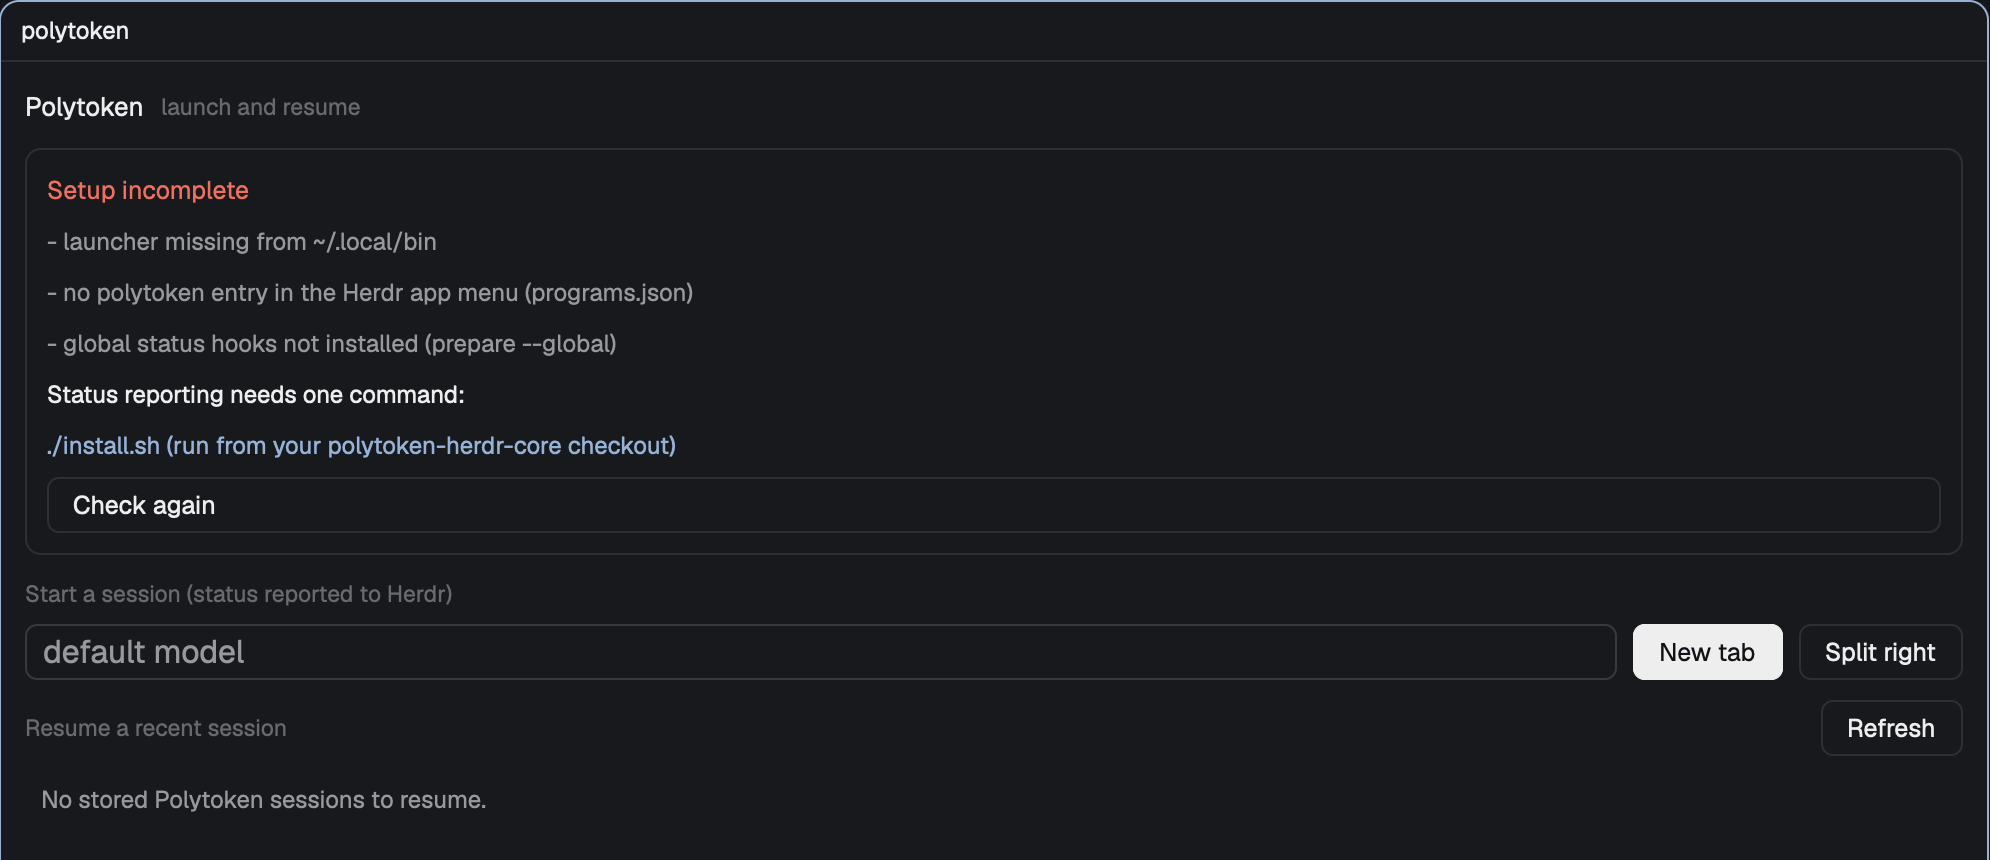
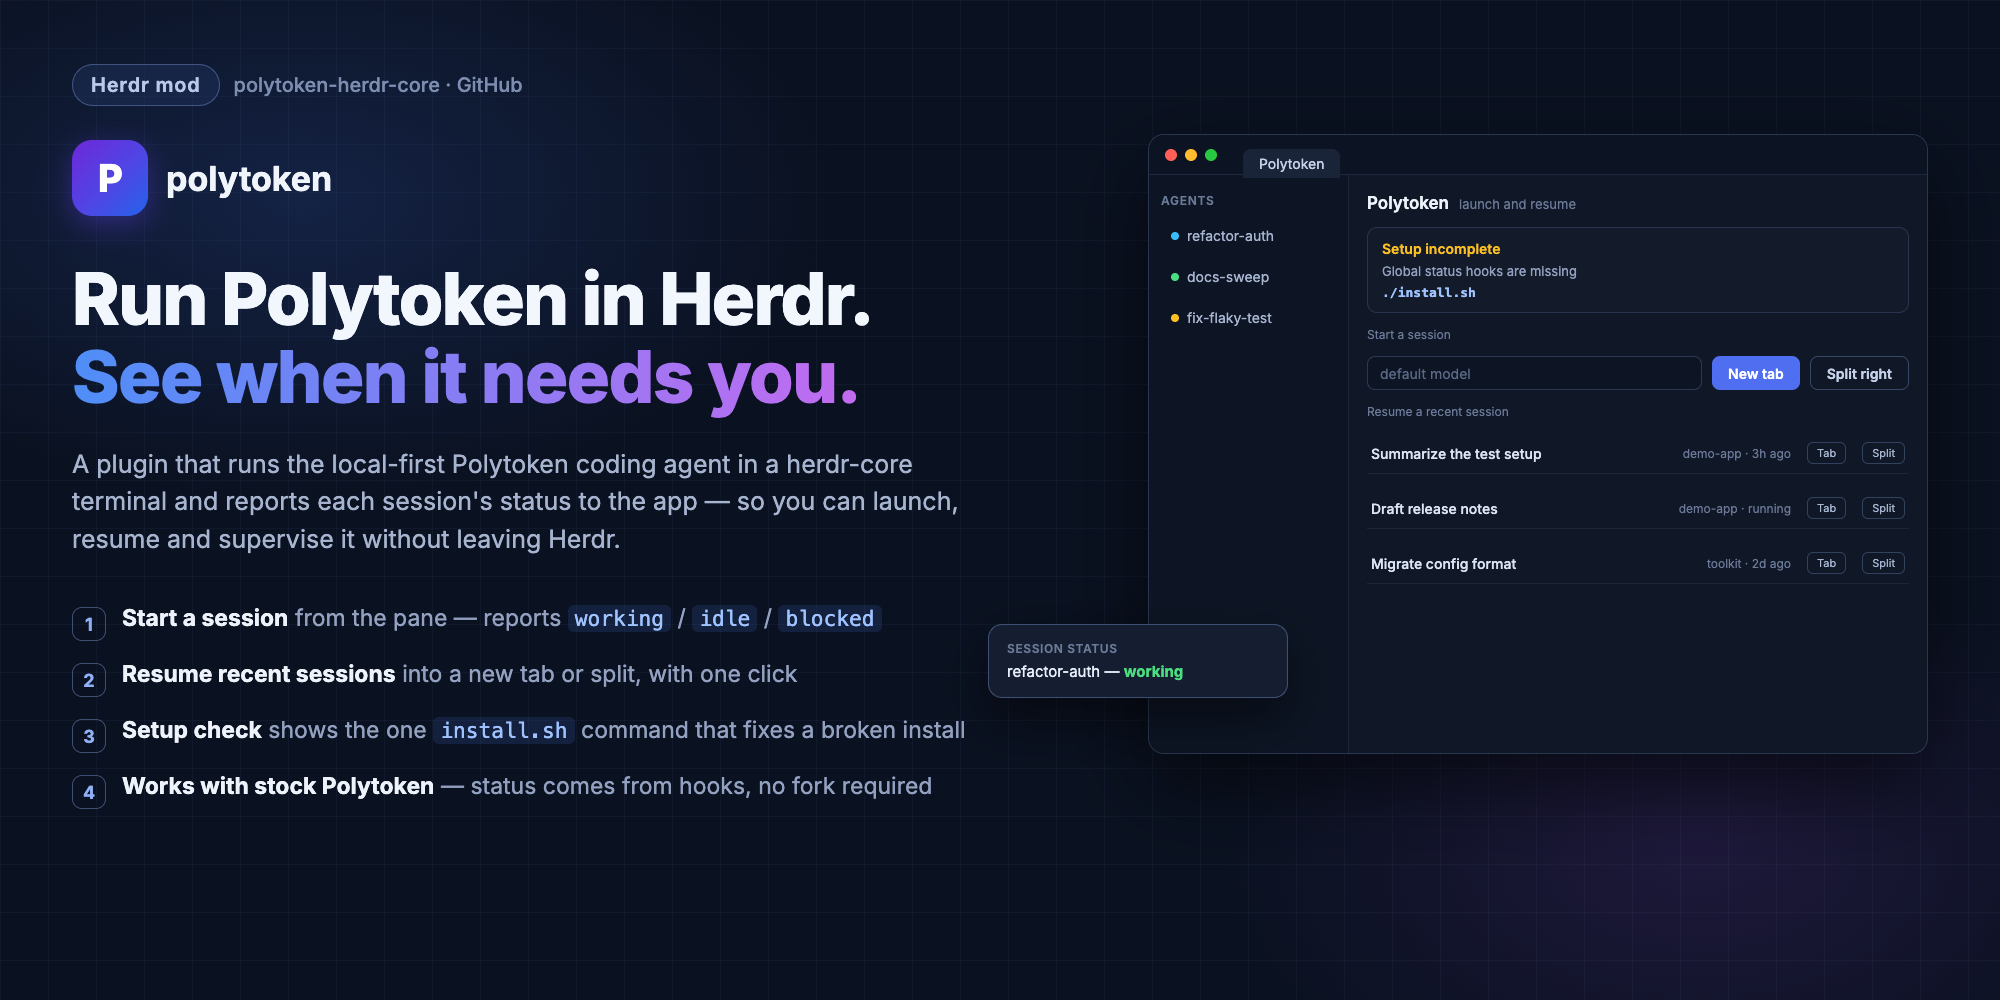
docs: explain Polytoken in README and add attract card preview (#2)
* docs: explain what Polytoken is in README

* docs: add attract card as preview.png and move pane screenshot to docs/screenshot.png

* no-mistakes(review): Point RECIPE.md preview at docs/screenshot.png

diff --git a/docs/attract/attract.html b/docs/attract/attract.html
@@ -1,0 +1,215 @@
+<!doctype html>
+<html>
+<head>
+<meta charset="utf-8">
+<style>
+  * { margin: 0; padding: 0; box-sizing: border-box; }
+  html, body { width: 2000px; height: 1000px; overflow: hidden; }
+  body {
+    font-family: "Inter", "Geist", -apple-system, "Helvetica Neue", Arial, sans-serif;
+    background: #0a1120;
+    color: #e6ecf5;
+    position: relative;
+  }
+  /* subtle grid + glow */
+  .bg-grid {
+    position: absolute; inset: 0;
+    background-image:
+      linear-gradient(rgba(120,150,220,0.06) 1px, transparent 1px),
+      linear-gradient(90deg, rgba(120,150,220,0.06) 1px, transparent 1px);
+    background-size: 48px 48px;
+  }
+  .bg-glow {
+    position: absolute; inset: 0;
+    background:
+      radial-gradient(900px 500px at 15% 20%, rgba(64,110,230,0.18), transparent 60%),
+      radial-gradient(800px 500px at 85% 85%, rgba(150,70,220,0.14), transparent 60%);
+  }
+  .content {
+    position: absolute; inset: 0;
+    padding: 64px 72px;
+    display: flex;
+  }
+  .left { width: 1020px; position: relative; }
+  .pill-row { display: flex; align-items: center; gap: 14px; }
+  .pill {
+    display: inline-block; padding: 8px 18px; border-radius: 999px;
+    border: 1px solid rgba(140,170,240,0.35);
+    background: rgba(30,48,90,0.5);
+    font-size: 20px; font-weight: 600; letter-spacing: 0.04em; color: #b9c8e8;
+  }
+  .pill-row .gh { font-size: 20px; color: #7d8db0; font-weight: 500; }
+  .brand-row { display: flex; align-items: center; gap: 18px; margin-top: 34px; }
+  .icon {
+    width: 76px; height: 76px; border-radius: 20px;
+    background: linear-gradient(135deg, #6d28d9 0%, #4f46e5 55%, #2563eb 100%);
+    display: flex; align-items: center; justify-content: center;
+    box-shadow: 0 8px 30px rgba(90,60,220,0.45);
+    font-size: 38px; font-weight: 800; color: #fff; letter-spacing: -0.02em;
+  }
+  .mod-name { font-size: 34px; font-weight: 700; color: #f0f4fb; }
+  h1 {
+    margin-top: 44px; font-size: 72px; line-height: 1.08; font-weight: 800;
+    letter-spacing: -0.02em; color: #f2f6fd;
+  }
+  h1 .grad {
+    background: linear-gradient(90deg, #4f8ef7 0%, #c26bf0 100%);
+    -webkit-background-clip: text; background-clip: text; color: transparent;
+  }
+  .lede {
+    margin-top: 30px; font-size: 25px; line-height: 1.5; color: #a7b4cf;
+    max-width: 900px;
+  }
+  .features { margin-top: 44px; display: flex; flex-direction: column; gap: 22px; }
+  .feat { display: flex; align-items: baseline; gap: 16px; font-size: 23px; }
+  .feat .n {
+    flex: none; width: 34px; height: 34px; border-radius: 10px;
+    border: 1px solid rgba(140,170,240,0.4); color: #8fb0f5;
+    display: inline-flex; align-items: center; justify-content: center;
+    font-size: 18px; font-weight: 700; transform: translateY(5px);
+  }
+  .feat b { color: #eef3fb; font-weight: 700; }
+  .feat span { color: #93a1c0; font-weight: 400; }
+  code {
+    font-family: "SF Mono", "JetBrains Mono", ui-monospace, Menlo, monospace;
+    font-size: 0.92em; color: #9fc3ff;
+    background: rgba(50,80,150,0.25); border-radius: 6px; padding: 1px 7px;
+  }
+  /* right side: herdr window mockup */
+  .right { position: relative; flex: 1; }
+  .window {
+    position: absolute; top: 70px; right: 0; width: 780px; height: 620px;
+    background: #101827; border: 1px solid rgba(130,160,220,0.22);
+    border-radius: 16px; box-shadow: 0 30px 80px rgba(0,0,0,0.55);
+    overflow: hidden;
+  }
+  .titlebar {
+    height: 40px; background: #0c1322; border-bottom: 1px solid rgba(130,160,220,0.15);
+    display: flex; align-items: center; gap: 8px; padding: 0 16px;
+  }
+  .tl { width: 12px; height: 12px; border-radius: 50%; }
+  .tl.r { background: #ff5f57; } .tl.y { background: #febc2e; } .tl.g { background: #28c840; }
+  .tab {
+    margin-left: 18px; padding: 6px 16px; border-radius: 8px 8px 0 0;
+    background: #1a2438; font-size: 14px; color: #c6d2ea; position: relative; top: 9px;
+  }
+  .win-body { display: flex; height: 580px; }
+  .sidebar {
+    width: 200px; background: #0d1524; border-right: 1px solid rgba(130,160,220,0.12);
+    padding: 14px 12px; display: flex; flex-direction: column; gap: 10px;
+  }
+  .side-label { font-size: 12px; color: #6c7a99; font-weight: 600; letter-spacing: 0.06em; margin: 4px 0 2px; }
+  .side-item { font-size: 14px; color: #a9b6d2; padding: 7px 10px; border-radius: 8px; }
+  .side-item.active { background: rgba(80,110,210,0.25); color: #e8eefb; }
+  .dot { display: inline-block; width: 8px; height: 8px; border-radius: 50%; margin-right: 8px; transform: translateY(-1px); }
+  .dot.working { background: #38bdf8; } .dot.idle { background: #4ade80; } .dot.blocked { background: #fbbf24; }
+  .pane {
+    flex: 1; padding: 18px; display: flex; flex-direction: column; gap: 14px;
+    font-size: 15px;
+  }
+  .pane-header { display: flex; align-items: baseline; gap: 10px; }
+  .pane-header .t { font-size: 17px; font-weight: 600; color: #eef3fb; }
+  .pane-header .s { font-size: 13px; color: #6c7a99; }
+  .card {
+    background: #16203266; border: 1px solid rgba(130,160,220,0.18);
+    border-radius: 10px; padding: 12px 14px;
+  }
+  .setup .head { color: #fbbf24; font-weight: 600; font-size: 14px; margin-bottom: 6px; }
+  .setup .line { color: #93a1c0; font-size: 13px; }
+  .setup .cmd { color: #9fc3ff; font-family: "SF Mono", ui-monospace, Menlo, monospace; font-size: 13px; font-weight: 600; margin-top: 6px; }
+  .label { font-size: 12px; color: #6c7a99; }
+  .row { display: flex; gap: 10px; }
+  .input {
+    flex: 1; height: 34px; border-radius: 8px; background: #0d1524;
+    border: 1px solid rgba(130,160,220,0.25); color: #5c6a88;
+    display: flex; align-items: center; padding: 0 12px; font-size: 14px;
+  }
+  .btn {
+    height: 34px; padding: 0 16px; border-radius: 8px; display: flex; align-items: center;
+    font-size: 14px; font-weight: 600;
+  }
+  .btn.solid { background: #4f6ef0; color: #fff; }
+  .btn.ghost { border: 1px solid rgba(130,160,220,0.35); color: #c6d2ea; }
+  .sess { display: flex; align-items: center; gap: 10px; padding: 9px 4px; border-bottom: 1px solid rgba(130,160,220,0.1); }
+  .sess .title { font-size: 14px; color: #dbe4f5; font-weight: 500; flex: 1; }
+  .sess .meta { font-size: 12px; color: #6c7a99; }
+  .mini {
+    font-size: 11px; padding: 3px 9px; border-radius: 6px;
+    border: 1px solid rgba(130,160,220,0.3); color: #a9b6d2; margin-left: 6px;
+  }
+  .float-card {
+    position: absolute; right: 640px; top: 560px; width: 300px;
+    background: #141e30; border: 1px solid rgba(140,170,240,0.35);
+    border-radius: 14px; padding: 16px 18px;
+    box-shadow: 0 20px 50px rgba(0,0,0,0.5);
+  }
+  .float-card .k { font-size: 12px; color: #6c7a99; font-weight: 600; letter-spacing: 0.05em; }
+  .float-card .v { font-size: 15px; color: #e8eefb; margin-top: 6px; }
+  .float-card .v b { color: #4ade80; font-weight: 700; }
+</style>
+</head>
+<body>
+  <div class="bg-grid"></div>
+  <div class="bg-glow"></div>
+  <div class="content">
+    <div class="left">
+      <div class="pill-row">
+        <span class="pill">Herdr mod</span>
+        <span class="gh">polytoken-herdr-core &middot; GitHub</span>
+      </div>
+      <div class="brand-row">
+        <div class="icon">P</div>
+        <div class="mod-name">polytoken</div>
+      </div>
+      <h1>Run Polytoken in Herdr.<br><span class="grad">See when it needs you.</span></h1>
+      <p class="lede">A plugin that runs the local-first Polytoken coding agent in a
+      herdr-core terminal and reports each session's status to the app &mdash;
+      so you can launch, resume and supervise it without leaving Herdr.</p>
+      <div class="features">
+        <div class="feat"><span class="n">1</span><div><b>Start a session</b> <span>from the pane &mdash; reports <code>working</code> / <code>idle</code> / <code>blocked</code></span></div></div>
+        <div class="feat"><span class="n">2</span><div><b>Resume recent sessions</b> <span>into a new tab or split, with one click</span></div></div>
+        <div class="feat"><span class="n">3</span><div><b>Setup check</b> <span>shows the one <code>install.sh</code> command that fixes a broken install</span></div></div>
+        <div class="feat"><span class="n">4</span><div><b>Works with stock Polytoken</b> <span>&mdash; status comes from hooks, no fork required</span></div></div>
+      </div>
+    </div>
+    <div class="right">
+      <div class="window">
+        <div class="titlebar">
+          <span class="tl r"></span><span class="tl y"></span><span class="tl g"></span>
+          <span class="tab">Polytoken</span>
+        </div>
+        <div class="win-body">
+          <div class="sidebar">
+            <div class="side-label">AGENTS</div>
+            <div class="side-item"><span class="dot working"></span>refactor-auth</div>
+            <div class="side-item"><span class="dot idle"></span>docs-sweep</div>
+            <div class="side-item"><span class="dot blocked"></span>fix-flaky-test</div>
+          </div>
+          <div class="pane">
+            <div class="pane-header"><span class="t">Polytoken</span><span class="s">launch and resume</span></div>
+            <div class="card setup">
+              <div class="head">Setup incomplete</div>
+              <div class="line">Global status hooks are missing</div>
+              <div class="cmd">./install.sh</div>
+            </div>
+            <div class="label">Start a session</div>
+            <div class="row">
+              <div class="input">default model</div>
+              <div class="btn solid">New tab</div>
+              <div class="btn ghost">Split right</div>
+            </div>
+            <div class="label">Resume a recent session</div>
+            <div class="sess"><span class="title">Summarize the test setup</span><span class="meta">demo-app &middot; 3h ago</span><span class="mini">Tab</span><span class="mini">Split</span></div>
+            <div class="sess"><span class="title">Draft release notes</span><span class="meta">demo-app &middot; running</span><span class="mini">Tab</span><span class="mini">Split</span></div>
+            <div class="sess"><span class="title">Migrate config format</span><span class="meta">toolkit &middot; 2d ago</span><span class="mini">Tab</span><span class="mini">Split</span></div>
+          </div>
+        </div>
+      </div>
+      <div class="float-card">
+        <div class="k">SESSION STATUS</div>
+        <div class="v">refactor-auth &mdash; <b>working</b></div>
+      </div>
+    </div>
+  </div>
+</body>
+</html>

diff --git a/README.md b/README.md
@@ -1,10 +1,18 @@
 # polytoken-herdr-core
 
+![Polytoken mod card](preview.png)
+
 Run [Polytoken](https://docs.polytoken.dev/) in a [herdr-core](https://github.com/herdrdev/herdr-core) terminal, send it work with `hc`, and see when it is working or waiting for you.
 
 This adapter works with stock Polytoken. It uses hooks to report session status to herdr-core and keeps the Polytoken terminal available through `hc attach`. You handle permissions, questions, and first-run agreements yourself.
 
 The project is experimental. Human-run tests have confirmed startup, a follow-up prompt, and terminal shutdown with Polytoken 0.9.4 and hc 0.1.15 on macOS. Status reports can arrive late or be lost; `idle` does not mean a task succeeded.
+
+## What is Polytoken?
+
+[Polytoken](https://docs.polytoken.dev/) is a local-first AI coding agent: a daemon manages conversations with AI providers, runs tools in your projects, and you drive it through a CLI and a terminal UI (TUI). Sessions keep running in the daemon while you are detached from the terminal.
+
+This plugin makes that agent visible inside the Herdr app: it reports each session's status (`working`, `idle`, `blocked`) to herdr-core as it works, adds Polytoken to the app's agent menu, and provides the Polytoken pane mod.
 
 ## Install as a Herdr app plugin
 
@@ -64,7 +72,7 @@ herdr-app do pane.split --direction right --mod polytoken
   `install.sh` command that fixes it. It only reads; it never installs or
   repairs anything itself.
 
-`RECIPE.md` describes the pane for herdr.dev/mods; `preview.png` shows it.
+`RECIPE.md` describes the pane for herdr.dev/mods; the [pane screenshot](docs/screenshot.png) shows it.
 
 ## How to use Polytoken with the Herdr app
 

diff --git a/RECIPE.md b/RECIPE.md
@@ -6,7 +6,7 @@ fix with one command — when the plugin is not fully installed. It is a
 launcher and a setup check, not a second agent list; the app's sidebar
 already shows every running agent and its status.
 
-![Polytoken](preview.png)
+![Polytoken pane](docs/screenshot.png)
 
 ## What you see
 
